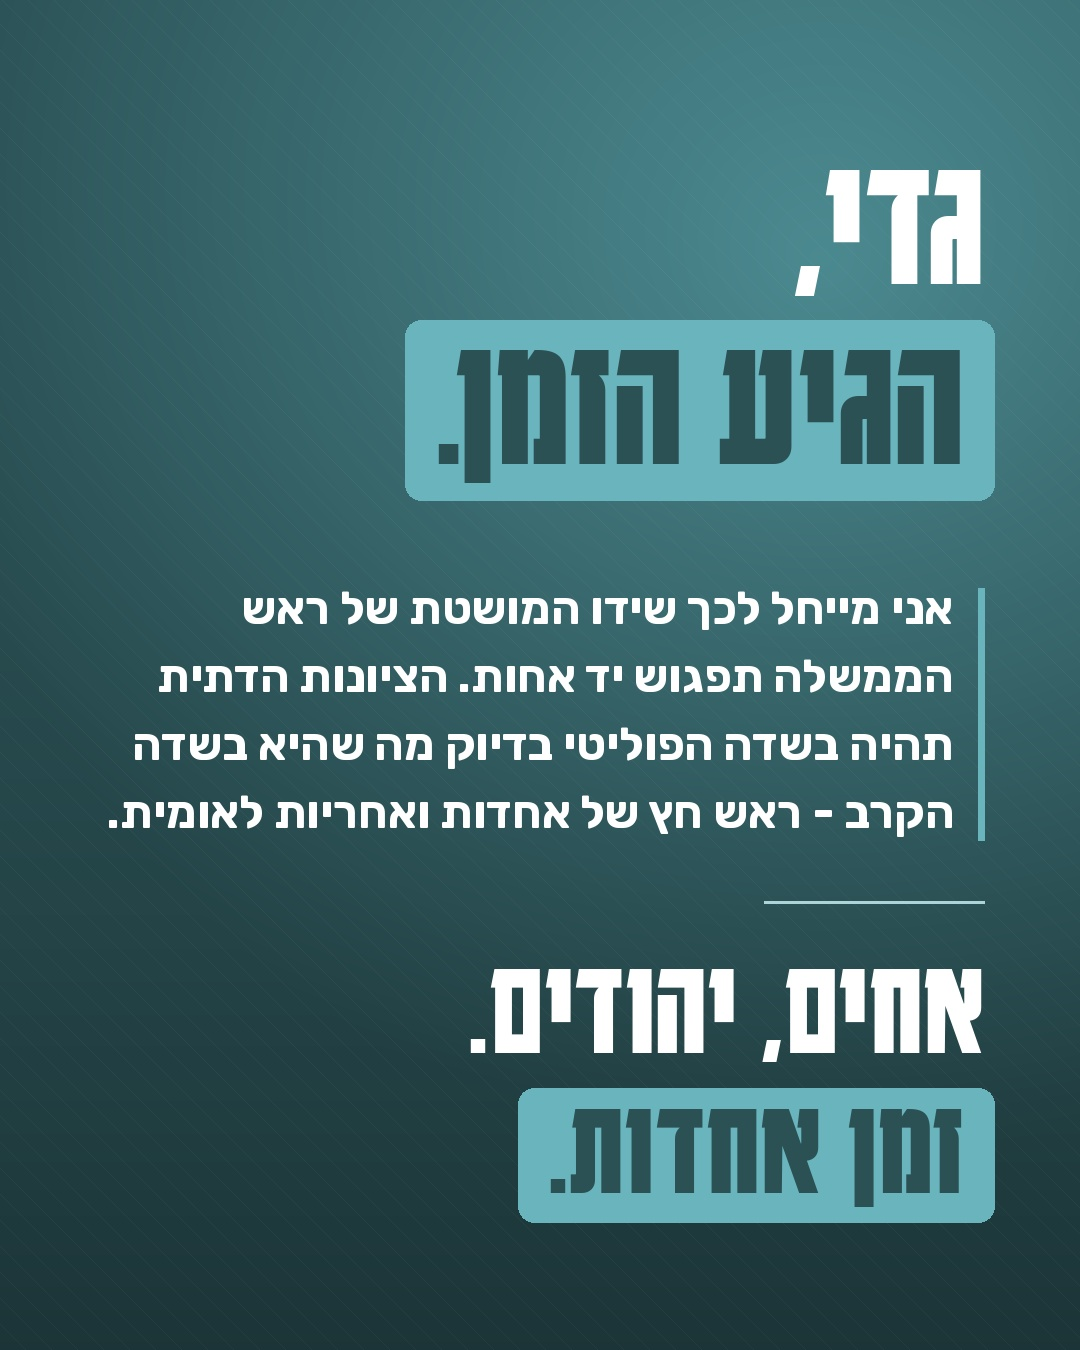
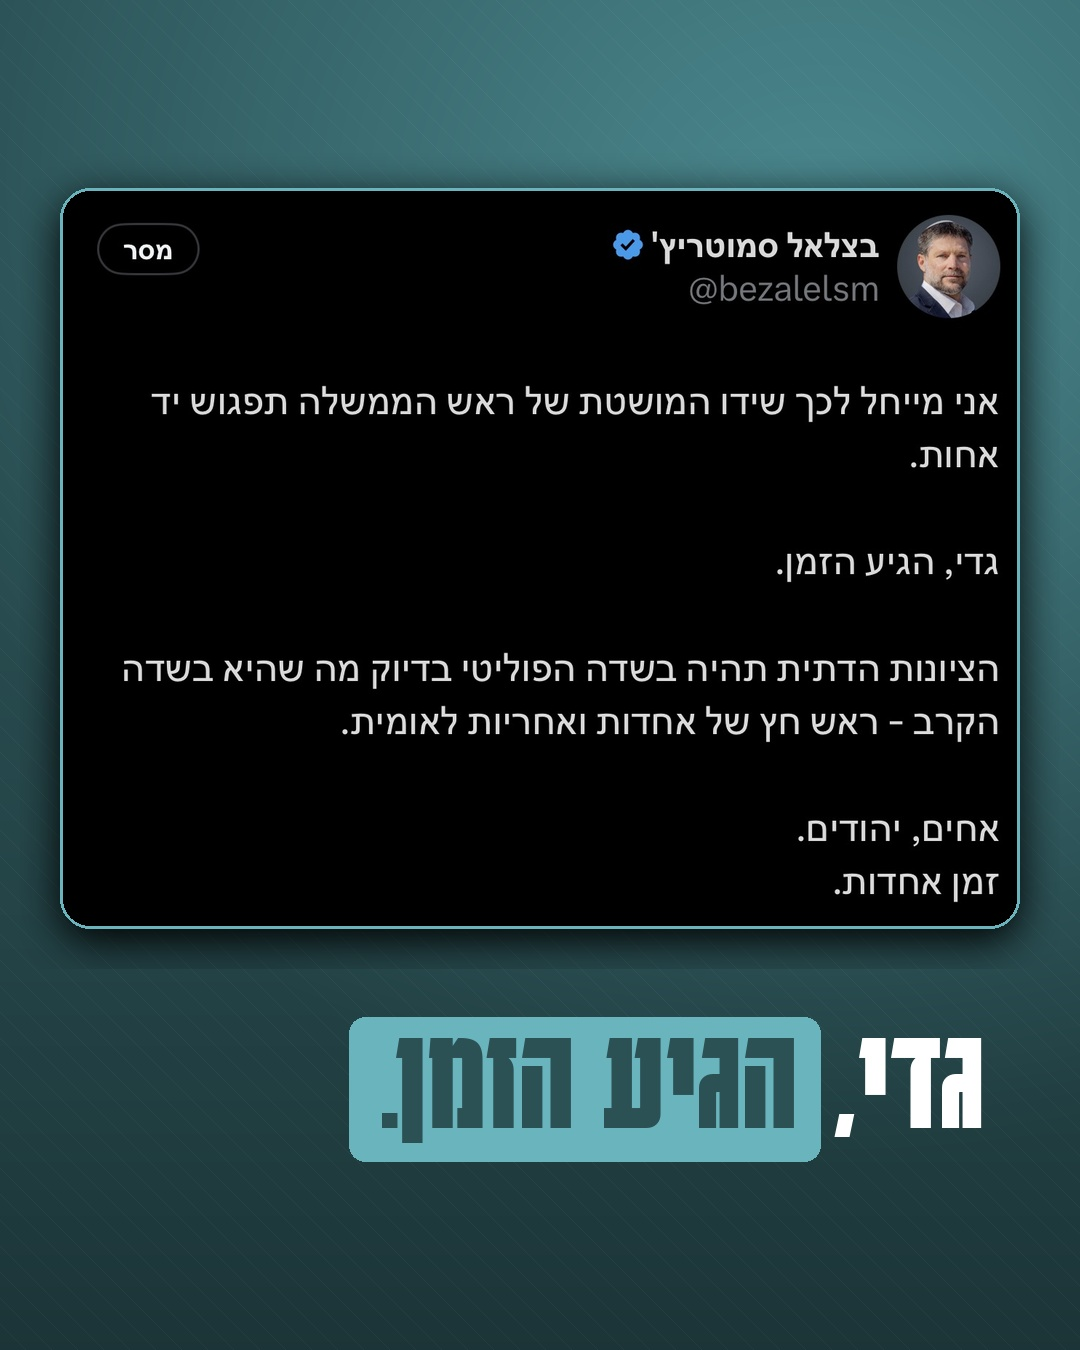
Gadi post: embed the tweet screenshot
Claude-Session: https://claude.ai/code/session_01RS3QK6pAd3YhyAuXZSJjH1

diff --git a/content-kit/hatzionut-hadatit/2026-11-post-gadi-unity/make.py b/content-kit/hatzionut-hadatit/2026-11-post-gadi-unity/make.py
@@ -22,15 +22,16 @@ tex = Image.new('L', (W, H), 0); td = ImageDraw.Draw(tex)
 for k in range(-H, W, 26): td.line((k, 0, k + H, H), fill=10, width=1)
 bg = Image.composite(Image.new('RGB', (W, H), MIST), bg, tex); d = ImageDraw.Draw(bg)
 M = 96; R = W - M
-d.text((R, 120), 'גדי,', font=F(KB, 190), fill=(255, 255, 255), anchor='ra', direction='rtl')
-f2 = F(KB, 190); t2 = 'הגיע הזמן.'; tw = d.textlength(t2, font=f2, direction='rtl')
-d.rounded_rectangle((R - tw - 50, 320, R + 10, 500), 16, fill=LT); d.text((R - 20, 300), t2, font=f2, fill=DEEP, anchor='ra', direction='rtl')
-body = 'אני מייחל לכך שידו המושטת של ראש הממשלה תפגוש יד אחות. הציונות הדתית תהיה בשדה הפוליטי בדיוק מה שהיא בשדה הקרב - ראש חץ של אחדות ואחריות לאומית.'
-f = F(RUB, 46); lines = wrap(d, body, f, W - 2 * M - 40); y0 = 580; lh = 68
-d.rectangle((R - 6, y0 + 8, R, y0 + lh * len(lines) - 12), fill=LT)
-for i, l in enumerate(lines): d.text((R - 30, y0 + i * lh), l, font=f, fill=(255, 255, 255), anchor='ra', direction='rtl')
-yb = y0 + lh * len(lines) + 50; d.line((W - M - 220, yb, R, yb), fill=PALE, width=3)
-fk = F(KB, 140); d.text((R, yb + 30), 'אחים, יהודים.', font=fk, fill=(255, 255, 255), anchor='ra', direction='rtl')
-t3 = 'זמן אחדות.'; tw3 = d.textlength(t3, font=fk, direction='rtl'); ty = yb + 30 + 140
-d.rounded_rectangle((R - tw3 - 50, ty + 16, R + 10, ty + 150), 16, fill=LT); d.text((R - 20, ty), t3, font=fk, fill=DEEP, anchor='ra', direction='rtl')
-bg.save(HERE + '/post.jpg', quality=95); print(len(lines), ty + 150)
+from PIL import ImageFilter
+tw_ = Image.open(HERE + '/source-tweet.jpg').convert('RGB'); cw = 960; card = tw_.resize((cw, int(cw * tw_.height / tw_.width)), Image.LANCZOS)
+m = Image.new('L', card.size, 0); ImageDraw.Draw(m).rounded_rectangle((0, 0, card.width - 1, card.height - 1), 30, fill=255)
+sh = Image.new('L', (card.width + 80, card.height + 80), 0); sh.paste(m, (40, 52)); sh = sh.filter(ImageFilter.GaussianBlur(20))
+X0 = (W - cw) // 2; TOP = (H - (card.height + 70 + 162)) // 2; bgA = bg.convert('RGBA'); bgA.paste((0, 0, 0, 150), (X0 - 40, TOP - 40), sh); bgA.paste(card, (X0, TOP), m)
+od = ImageDraw.Draw(bgA); od.rounded_rectangle((X0, TOP, X0 + cw - 1, TOP + card.height - 1), 30, outline=(105, 180, 189, 160), width=3)
+bg = bgA.convert('RGB'); d = ImageDraw.Draw(bg)
+y = TOP + card.height + 70
+fk = F(KB, 150); d.text((R, y), 'גדי,', font=fk, fill=(255, 255, 255), anchor='ra', direction='rtl')
+gw = d.textlength('גדי, ', font=fk, direction='rtl'); t2 = 'הגיע הזמן.'; tw2 = d.textlength(t2, font=fk, direction='rtl')
+x2 = R - gw; d.rounded_rectangle((x2 - tw2 - 40, y + 18, x2 + 14, y + 162), 16, fill=LT); d.text((x2 - 10, y), t2, font=fk, fill=DEEP, anchor='ra', direction='rtl')
+print(y + 162)
+bg.save(HERE + '/post.jpg', quality=95)
